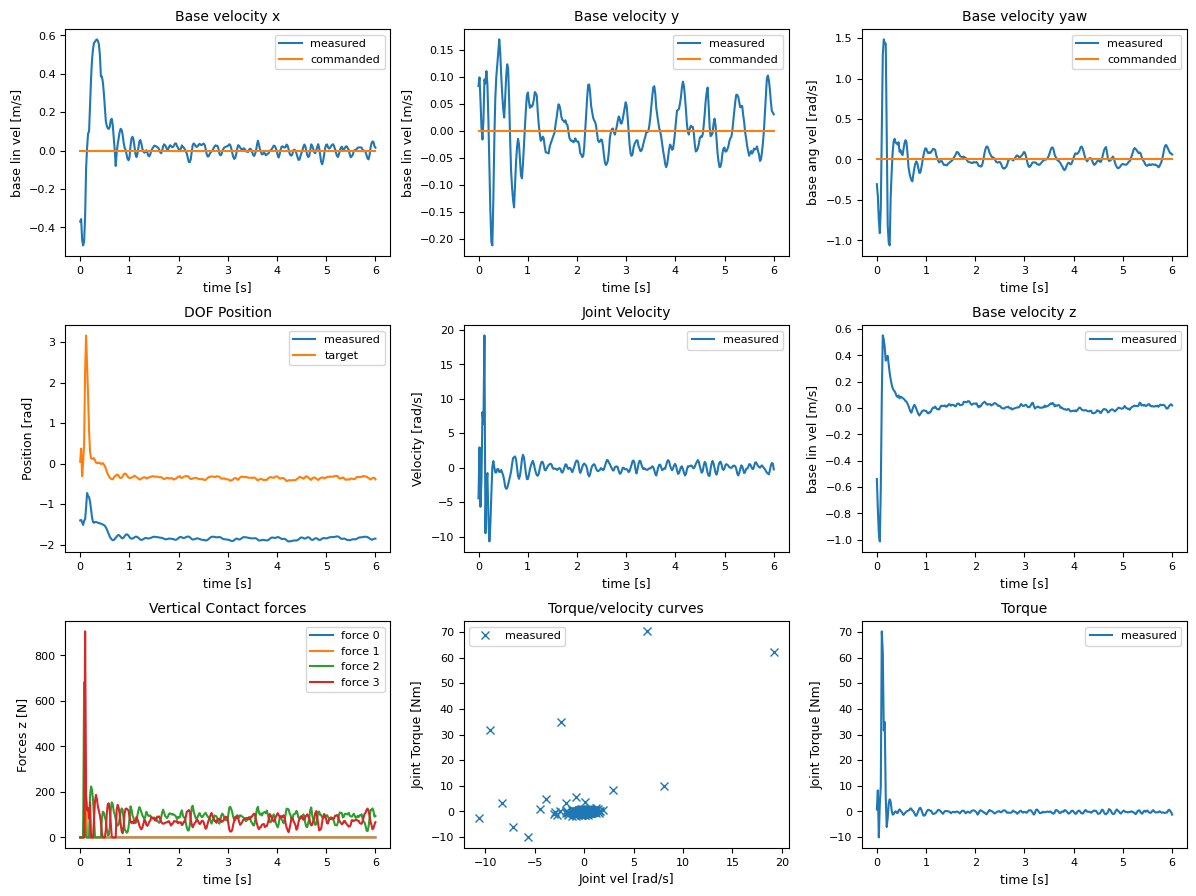
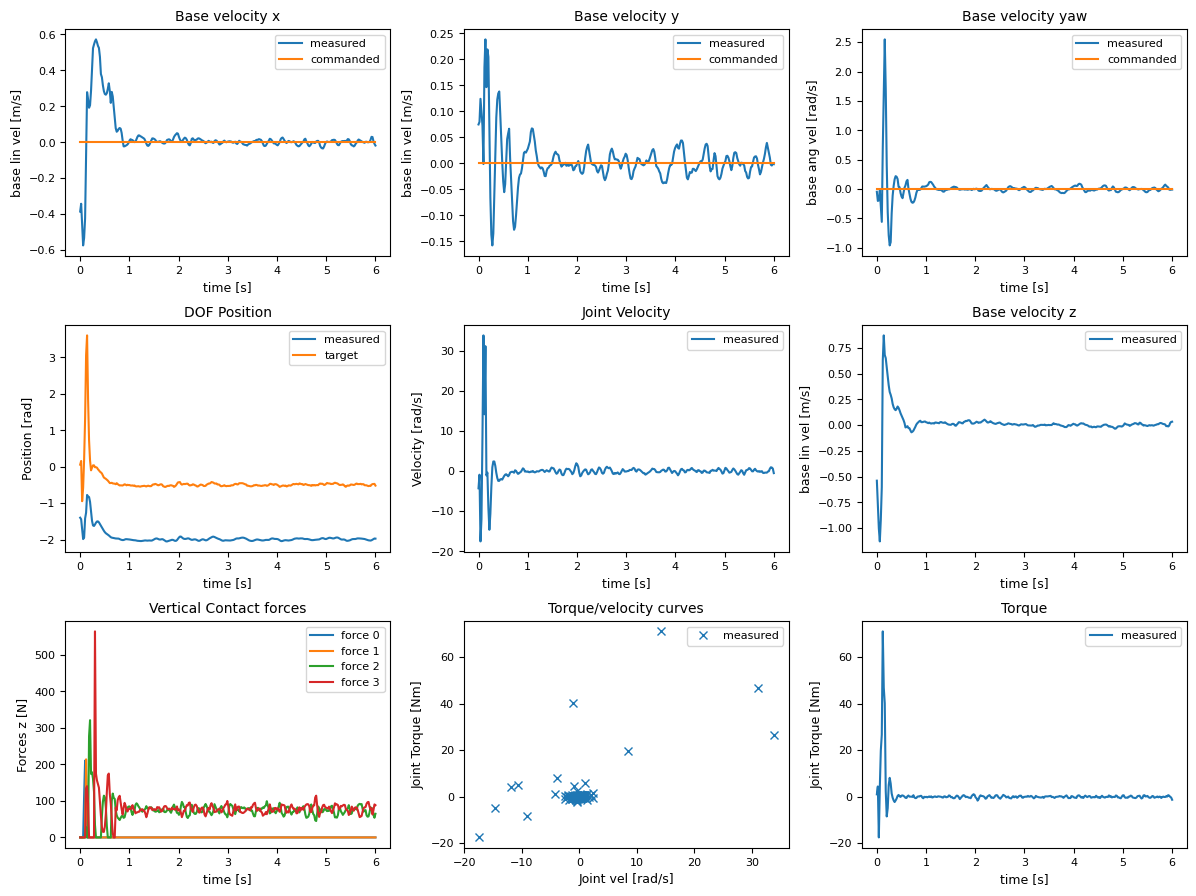
Working stable walking

diff --git a/legged_gym/envs/go2/go2_spark_biped/go2_spark_biped.py b/legged_gym/envs/go2/go2_spark_biped/go2_spark_biped.py
@@ -225,6 +225,7 @@ class GO2SparkBiped(BaseTask):
         self.feet_vel[:] = self.robot.get_links_vel()[:, self.feet_indices, :]
         all_links_quat = self.robot.get_links_quat()
         self.feet_quat[:] = all_links_quat[:, self.feet_indices, :]
+
         flat_quat = self.feet_quat.reshape(-1, 4)
         foot_up = torch.zeros_like(flat_quat[:, :3])
         foot_up[:, 2] = 1.0
@@ -247,14 +248,17 @@ class GO2SparkBiped(BaseTask):
         # Periodic Reward Framework phi cycle
         # step after computing reward but before resetting the env
         self.gait_time += self.dt
+
         # +self.dt/2 in case of float precision errors
         is_over_limit = (self.gait_time >= (self.gait_period - self.dt / 2))
         over_limit_indices = is_over_limit.nonzero(as_tuple=False).flatten()
         self.gait_time[over_limit_indices] = 0.0
         self.phi = self.gait_time / self.gait_period
+
         env_ids = self.reset_buf.nonzero(as_tuple=False).flatten()
         if self.num_build_envs > 0:
             self.reset_idx(env_ids)
+
         self._calc_periodic_reward_obs()
         self.compute_observations() # in some cases a simulation step might be required to refresh some obs (for example body positions)
         self.llast_actions[:] = self.last_actions[:]
@@ -886,6 +890,10 @@ class GO2SparkBiped(BaseTask):
         self.clock_input[:] = torch.sin(2 * torch.pi * self.phi)
 
     def _post_physics_step_callback(self):
+        # Update stationary mask based on command magnitude
+        cmd_mag = torch.norm(self.commands[:, :3], dim=1)
+        self.is_stationary[:] = cmd_mag < self.cfg.commands.min_normal
+
         env_ids = (self.episode_length_buf % int(self.cfg.commands.resampling_time / self.dt) == 0).nonzero(as_tuple=False).flatten()
         self._resample_commands(env_ids)
 
@@ -979,7 +987,7 @@ class GO2SparkBiped(BaseTask):
         noise_scales = self.cfg.noise.noise_scales
         noise_level = self.cfg.noise.noise_level
         # Observation layout (per frame): cmd(3), grav(3), base_lin_acc(3), base_ang_vel(3),
-        # dof_pos(14), dof_vel(14), last_actions(14), clock(1), gait(1), base_h(1),
+        # dof_pos(12), dof_vel(12), last_actions(12), clock(1), gait(1), base_h(1),
         # foot_clearance(1), fixed_pitch(1), arm_left(4), arm_right(4)
         i = 0
         noise_vec[i:i+3] = 0.  # commands
@@ -1011,6 +1019,7 @@ class GO2SparkBiped(BaseTask):
         self.noise_scale_vec = self._get_noise_scale_vec()
         self.forward_vec = torch.zeros((self.num_envs, 3), device=self.device, dtype=gs.tc_float)
         self.forward_vec[:, 0] = 1.0
+        self.is_stationary = torch.zeros((self.num_envs,), device=self.device, dtype=torch.bool)
         self.tgt_rl_dir = torch.zeros((self.num_envs, 3), device=self.device, dtype=gs.tc_float)
         self.tgt_rr_dir = torch.zeros((self.num_envs, 3), device=self.device, dtype=gs.tc_float)
         self.vel_dir = torch.zeros((self.num_envs, 3), device=self.device, dtype=gs.tc_float)
@@ -1377,8 +1386,8 @@ class GO2SparkBiped(BaseTask):
 
     def _neg_reward_hip_pos(self):
         # Negative reward
-        hip_joint_indices_all = [0, 3, 6, 10]
-        hip_joint_indices_rear = [6, 10]
+        hip_joint_indices_all = [0, 3, 6, 9]
+        hip_joint_indices_rear = [6, 9]
         pitch_error = torch.square(self.base_axis_fwd[:, 2] - self.fixed_pitch_target.squeeze(1))
         # Only penalize hips joints rear when upright standing
         dof_pos_error = torch.where(pitch_error < 0.2,
@@ -1459,7 +1468,7 @@ class GO2SparkBiped(BaseTask):
         # wrap to (-pi, pi]
         return torch.atan2(torch.sin(a - b), torch.cos(a - b))
 
-    def _biped_orientation_gate(self):
+    def _biped_orientation_gate(self, force_angle=None):
         # Gate shaping rewards: 1 when aligned, 0 when far from target
         # target = self.fixed_pitch_target.squeeze(1)
         # error = torch.abs(self.base_axis_fwd[:, 2] - target)
@@ -1468,7 +1477,11 @@ class GO2SparkBiped(BaseTask):
         # return 1.0 - gate
 
         pitch_angle = torch.atan2(self.base_axis_fwd[:, 2], torch.norm(self.base_axis_fwd[:, :2], dim=1))
-        target = 1.570796 # 90.0 degrees
+        if force_angle is None:
+            target = 1.570796 # 90.0 degrees
+        else:
+            target = force_angle
+
         error = torch.abs(pitch_angle - target)
 
         window = max(self.cfg.rewards.biped_shaping_pitch_window * target, 1e-6)
@@ -1581,7 +1594,7 @@ class GO2SparkBiped(BaseTask):
         f_fl_local = transform_by_quat(f_fl, inv_base_quat)  # Transform to local frame
         f_fr_local = transform_by_quat(f_fr, inv_base_quat)  # Transform to local frame
 
-        # Extract the X (forward/backward) and Z (vertical) components
+        # Extract Z (vertical) components
         f_fl_push = f_fl_local[:, 2]
         f_fr_push = f_fr_local[:, 2]
 
@@ -1724,3 +1737,25 @@ class GO2SparkBiped(BaseTask):
         # Penalty: nonzero only when cmd_mag > deadzone AND both feet in contact
         cost = both * cmd_excess
         return cost
+
+    def _neg_reward_trot_in_place(self):
+        """Penalize foot motion while stationary and upright."""
+        # Only active when commanded to stand still
+        active = self.is_stationary
+        if not torch.any(active):
+            return torch.zeros(self.num_envs, device=self.device, dtype=gs.tc_float)
+
+        # Negative reward
+        thigh_joint_indices_rear = [7, 10]
+        # Penalize angles of thigh != 2.0
+        target = 2.0
+        diff = self.dof_pos[active][:, thigh_joint_indices_rear] - target
+        dof_pos_error = torch.sum(torch.square(diff), dim=-1)
+
+        gate = self._biped_orientation_gate()[active]
+        reward_active = torch.lerp(torch.zeros_like(dof_pos_error), dof_pos_error, gate)
+        reward = torch.zeros(self.num_envs, device=self.device, dtype=gs.tc_float)
+        reward[active] = reward_active
+
+        gate = self._biped_orientation_gate()
+        return torch.lerp(torch.zeros_like(reward), reward, gate)

diff --git a/legged_gym/envs/go2/go2_spark_biped/go2_spark_biped_config.py b/legged_gym/envs/go2/go2_spark_biped/go2_spark_biped_config.py
@@ -6,13 +6,13 @@ class GO2SparkBipedCfg(BaseConfig):
         episode_length_s = 20 # episode length in seconds
         num_envs = 21500
         env_spacing = 1.0
-        num_actions = 14
+        num_actions = 12
         # observation history
         frame_stack = 5   # policy frame stack
         c_frame_stack = 5  # critic frame stack
-        num_single_obs = 67
+        num_single_obs = 61
         num_observations = int(num_single_obs * frame_stack)
-        single_num_privileged_obs = 108
+        single_num_privileged_obs = 98
         num_privileged_obs = int(c_frame_stack * single_num_privileged_obs)
         send_timeouts = True
         debug = False
@@ -56,7 +56,7 @@ class GO2SparkBipedCfg(BaseConfig):
         min_normal = 0.05
         class ranges:
             lin_vel_x = [-0.5, 2.0]
-            lin_vel_y = [-0.05, 0.05] # Was -0.2, 0.2
+            lin_vel_y = [-0.08, 0.08] # Was -0.2, 0.2
             ang_vel_yaw = [-1.0, 1.0]
             heading = [-3.14, 3.14]
 
@@ -83,9 +83,6 @@ class GO2SparkBipedCfg(BaseConfig):
             'RL_calf_joint': -1.5,    # [rad]
             'FR_calf_joint': -1.5,  # [rad]
             'RR_calf_joint': -1.5,    # [rad]
-
-            'RL_foot_joint': 0.0,
-            'RR_foot_joint': 0.0,
         }
 
     class control:
@@ -111,11 +108,10 @@ class GO2SparkBipedCfg(BaseConfig):
             'RR_hip_joint',
             'RR_thigh_joint',
             'RR_calf_joint',
-            'RR_foot_joint',
             'RL_hip_joint',
             'RL_thigh_joint',
             'RL_calf_joint',
-            'RL_foot_joint']
+        ]
         foot_name = ["foot"]
         penalize_contacts_on = ["thigh", "calf", "hip", "base"]
         terminate_after_contacts_on = ["base", "calf", "thigh", "hip"]
@@ -156,6 +152,7 @@ class GO2SparkBipedCfg(BaseConfig):
         tracking_sigma = 0.20 # tracking reward = exp(-error^2/sigma)
         soft_torque_limit = 1.
         foot_clearance_tracking_sigma = 0.1
+        heavy_foot_sigma = 0.1
         base_height_tracking_sigma = 0.25
         front_arm_angle_sigma = 0.5
         thigh_angle_sigma = 0.5
@@ -179,18 +176,20 @@ class GO2SparkBipedCfg(BaseConfig):
             orientation = 1.5
             base_height_target = 0.6
             hind_foot_clearance = 0.82
-            arm_angles = 0.5
+            arm_angles = 0.8
             feet_under_base = 0.45
             hind_spread_contact = -1.5
             static_walk = -1.9
             foot_orientation = -0.3
+            trot_in_place = -3.0
 
+            #heavy_foot = -0.3
             dof_pos_limits = -10.0
             collision = -1.0
             dof_vel = -5e-4
             dof_acc = -2e-7
             action_rate = -0.003
-            action_smoothness = -0.03
+            action_smoothness = -0.05
             hip_pos = -0.5
             pitch_rate = -10.0
             termination = -0.0
@@ -266,7 +265,7 @@ class GO2SparkBipedCfgPPO():
         run_name = 'spark'
         experiment_name = 'go2_spark_biped'
         save_interval = 500
-        load_run = "Dec12_20-16-24_spark"
+        load_run = "Dec14_20-44-40_spark"
         checkpoint = -1
         max_iterations = 5000
         num_steps_per_env = 16 #32
